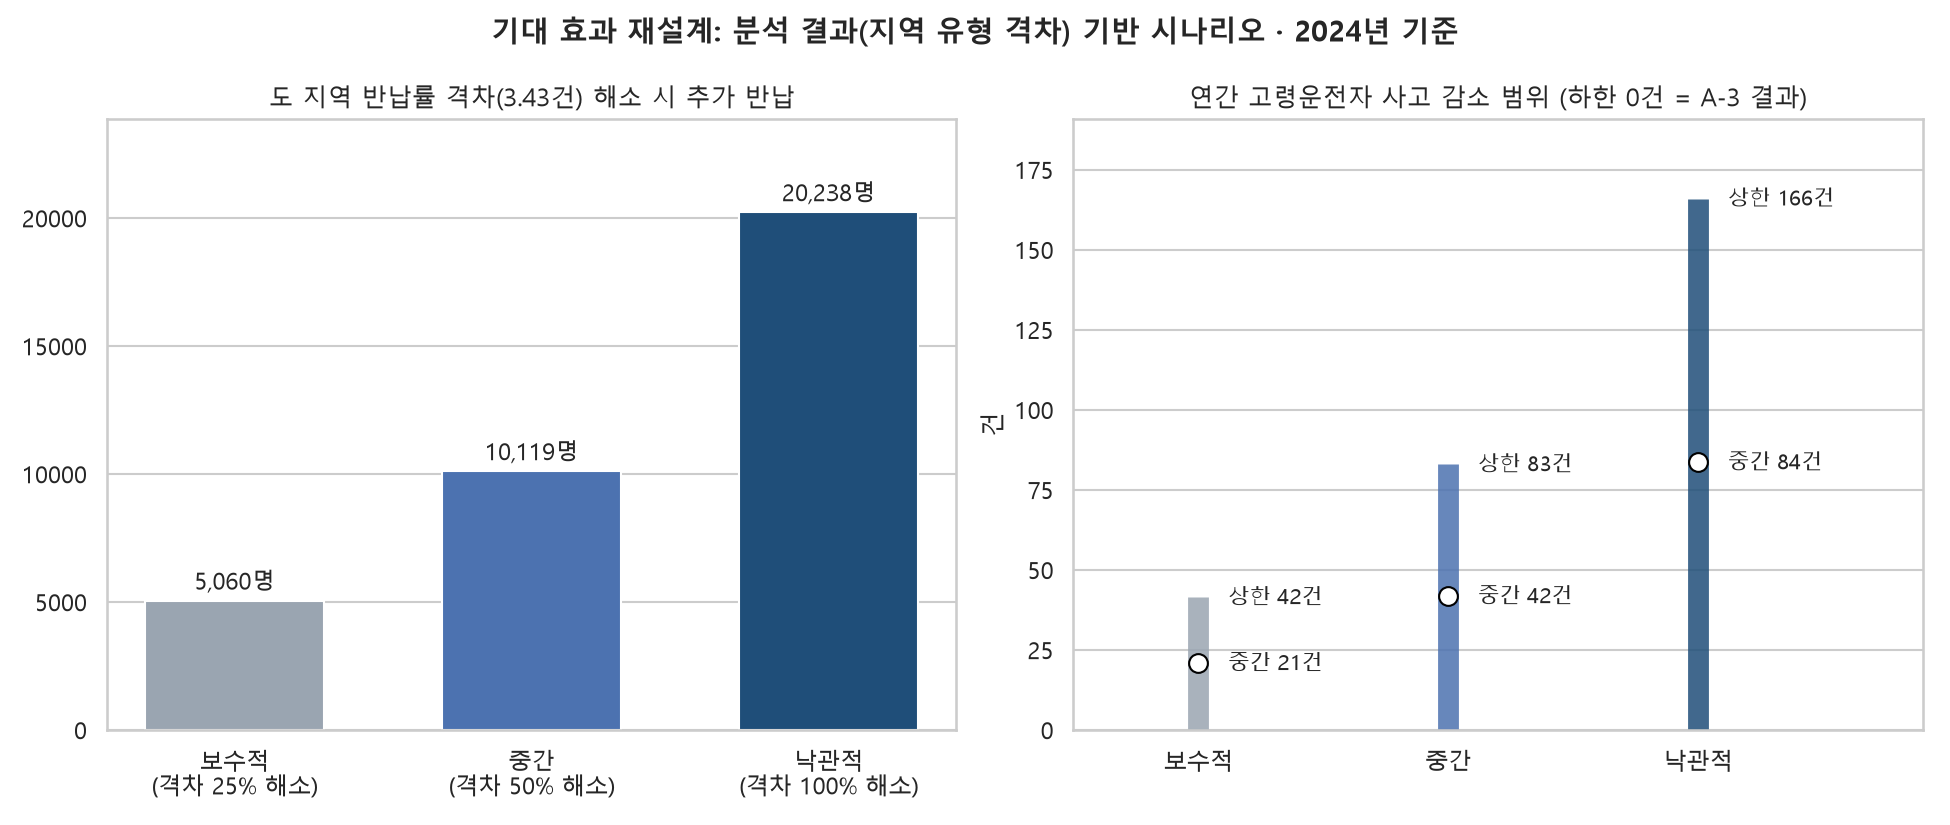
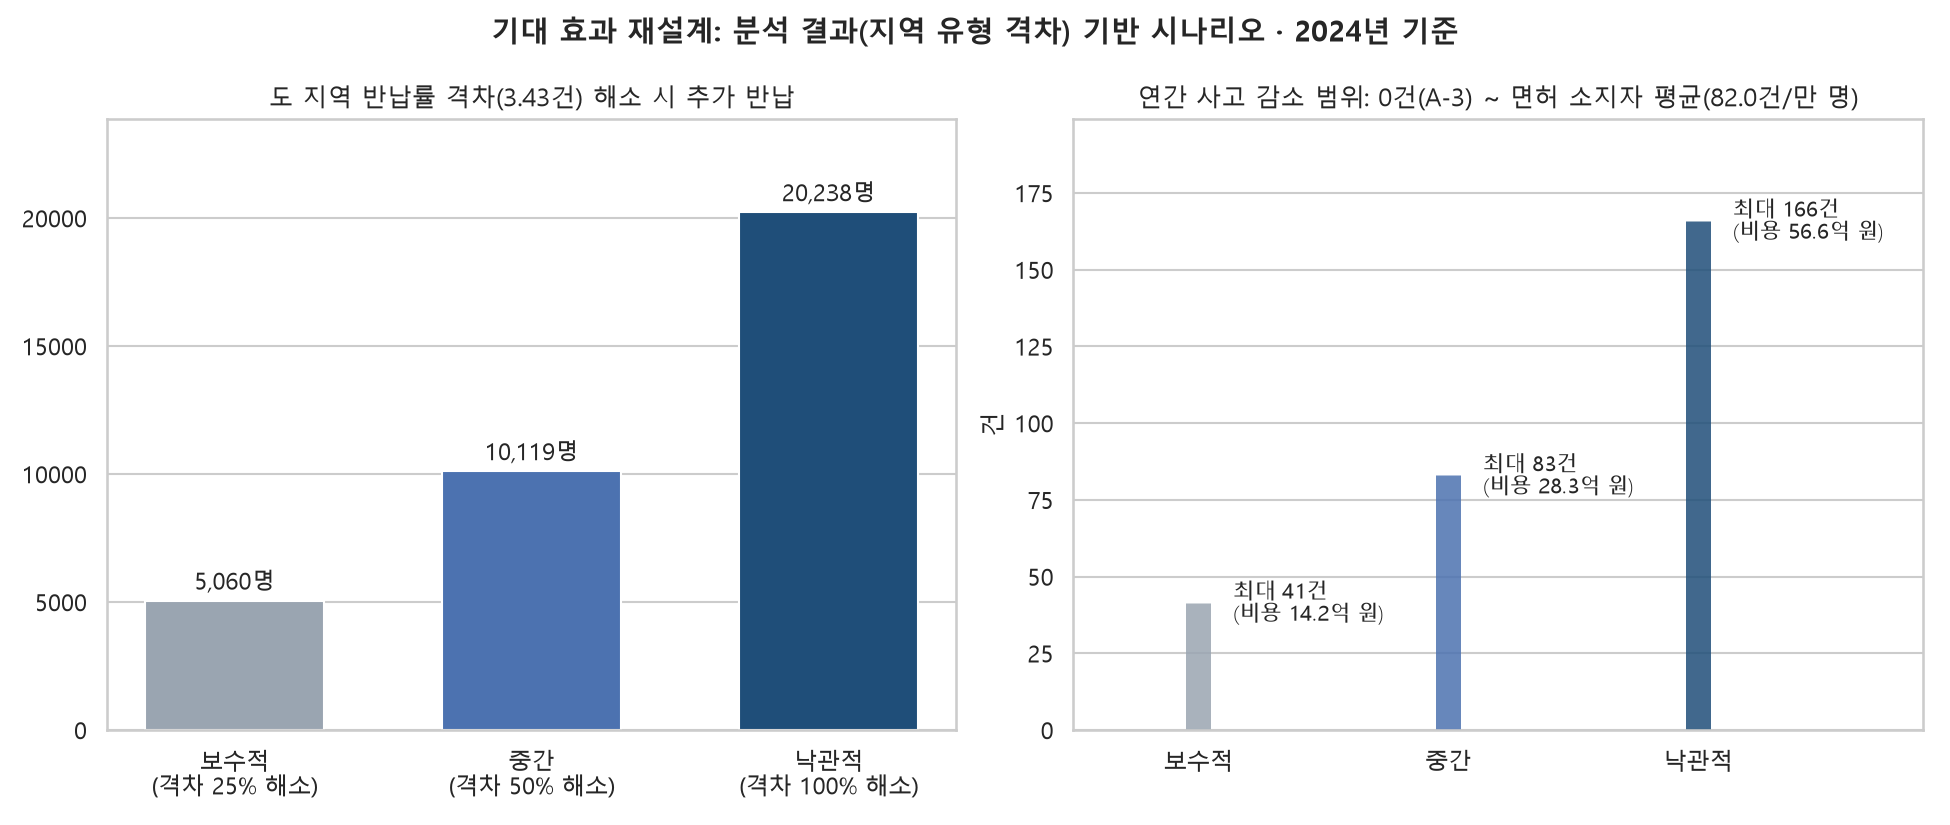
feat: 회고 ③ 2차 보완 - 사고 감소·비용을 공식 통계 기반 계산값으로 교체
- TAAS 2024 노인운전자 사고 사상자 구성(사망·중상·경상·부상신고) × 도로교통공단 1인당 사고비용
  → 고령운전자 사고 1건당 인적피해 비용 3,412만 원
- TAAS 사고 ÷ KOSIS 고령 면허 소지자 → 1만 명당 82.01건
- 시나리오 결과를 0 ~ 상한 범위(사고·사망·비용)로 갱신, 그래프·결과표·회고 갱신

diff --git a/개선/01_기대효과/기대효과_재설계.py b/개선/01_기대효과/기대효과_재설계.py
@@ -10,6 +10,9 @@
 #   ① 반납 목표: 우리 결과(도 지역 반납률이 대도시보다 3년 내내 낮음)에서 출발 → 격차를 25 / 50 / 100% 줄이는 3가지 시나리오
 #   ② 사고 위험: KOSIS 고령 면허 소지자 수로 '면허 소지자 1만 명당 사고'를 계산해 상한으로 사용
 #   ③ A-3 반영: 반납 1명당 사고 감소를 0(하한) ~ 면허 소지자 평균(상한) 범위로 제시
+#   ④ (2차 보완) 모든 입력값을 공식 통계로: 사고·사상자는 TAAS, 면허 소지자는 KOSIS, 비용 단가는 도로교통공단 발표값.
+#      비용은 '사망 비용 × 치사율' 대신, 고령운전자 사고의 실제 사상자 구성(사망·중상·경상·부상신고)으로 1건당 비용을 계산한다.
+#      남는 가정은 하나: "추가로 반납하는 어르신의 사고 위험 = 고령 면허 소지자 평균"(상한). 하한은 A-3 결과에 따라 0건.
 
 import numpy as np
 import pandas as pd
@@ -34,8 +37,23 @@ sns.set_theme(font='Malgun Gothic', rc={'axes.unicode_minus': False}, style='whi
 #   65세 ~ 99세 이상 '총계' 열을 연도별로 더한 값. 시도별 표(DT_13201_A005)에는 연령 구분이 없어 전국 값만 사용한다.
 고령면허 = pd.Series({2022: 4_387_358, 2023: 4_747_426, 2024: 5_166_386}, name='고령면허소지자')
 
-# 사망 1명당 사회적 비용 (도로교통공단, 2022년 기준 · 2024.02 발표) — 외부 값
-사망1명비용 = 533_790_000
+# TAAS 교통사고분석시스템 「시도 시군구별·월별 (노인운전자) 교통사고」 2024년 전국 합계 (도로교통공단, 경찰 DB)
+#   https://taas.koroad.or.kr/sta/acs/gus/selectOdsnDrverTfcacd.do?menuId=WEB_KMP_OVT_MVT_TAS_ODT
+#   사고 42,369건 · 사망 761명 · 부상 59,776명(= 중상 11,583 + 경상 44,442 + 부상신고 3,751)
+TAAS_2024 = {'사고': 42_369, '사망': 761, '중상': 11_583, '경상': 44_442, '부상신고': 3_751}
+assert TAAS_2024['중상'] + TAAS_2024['경상'] + TAAS_2024['부상신고'] == 59_776
+
+# 도로교통공단 「도로교통사고 비용의 추계와 평가」 2022년 기준, 사상자 1인당 평균 사고비용 (가장 최근 발표값)
+단가 = {'사망': 533_790_000, '중상': 68_900_000, '경상': 5_200_000, '부상신고': 2_680_000}
+
+# 고령운전자 사고 1건당 인적피해 비용 = Σ(사상자 수 × 1인당 비용) ÷ 사고 건수  (물적피해·사회기관비용 제외)
+인적피해 = {k: TAAS_2024[k] * 단가[k] for k in 단가}
+건당비용 = sum(인적피해.values()) / TAAS_2024['사고']
+건당사망 = TAAS_2024['사망'] / TAAS_2024['사고']
+print('[0] 고령운전자 사고 1건당 인적피해 비용 (2024 사상자 × 2022 단가)')
+for k, v in 인적피해.items():
+    print(f'  {k}: {TAAS_2024[k]:,}명 × {단가[k] / 1e4:,.0f}만 원 = {v / 1e8:,.1f}억 원')
+print(f'  합계 {sum(인적피해.values()) / 1e8:,.1f}억 원 ÷ {TAAS_2024["사고"]:,}건 = 1건당 {건당비용 / 1e4:,.0f}만 원')
 
 # ─────────────────────────────────────────────
 # 2. 분모 바꾸기: 인구 기준 vs 면허 소지자 기준
@@ -74,23 +92,21 @@ print(f'격차: {격차:.2f}건')
 # ─────────────────────────────────────────────
 # 4. 시나리오: 추가 반납 × 반납 1명당 사고 감소(하한 0 ~ 상한 면허 소지자 평균)
 # ─────────────────────────────────────────────
-사고위험 = {
-    '하한 (A-3: 관계 확인 안 됨)': 0.0,
-    '중간 (인구 기준, 기존 방식)': 전국.loc[2024, '사고_인구만명당'] / 1e4,
-    '상한 (면허 소지자 평균)': 전국.loc[2024, '사고_면허만명당'] / 1e4,
-}
-치사율 = 전국.loc[2024, '치사율(%)'] / 100
+# 면허 소지자 1명당 연간 사고 = TAAS 2024 사고 ÷ KOSIS 2024 고령 면허 소지자 (계산값)
+면허1명당사고 = TAAS_2024['사고'] / 고령면허[2024]
+print(f'\n고령 면허 소지자 1만 명당 사고 = {TAAS_2024["사고"]:,} ÷ {고령면허[2024]:,} × 10,000 = {면허1명당사고 * 1e4:.2f}건')
 
 행 = []
 for 이름, 비율 in [('보수적', 0.25), ('중간', 0.50), ('낙관적', 1.00)]:
     추가반납 = 격차 * 비율 * 도인구 / 1000
-    r = {'시나리오': 이름, '격차 해소': f'{비율:.0%}', '추가 반납(명)': round(추가반납)}
-    for k, 위험 in 사고위험.items():
-        r[f'사고 감소 · {k}'] = round(추가반납 * 위험, 1)
-    상한사고 = 추가반납 * 사고위험['상한 (면허 소지자 평균)']
-    r['사망 비용 절감 상한(억 원)'] = round(상한사고 * 치사율 * 사망1명비용 / 1e8, 1)
-    행.append(r)
+    상한사고 = 추가반납 * 면허1명당사고
+    행.append({'시나리오': 이름, '격차 해소': f'{비율:.0%}', '추가 반납(명)': round(추가반납),
+              '사고 감소(건/년)': f'0 ~ {상한사고:.1f}',
+              '사망 감소(명/년)': f'0 ~ {상한사고 * 건당사망:.2f}',
+              '인적피해 비용 절감(억 원/년)': f'0 ~ {상한사고 * 건당비용 / 1e8:.1f}',
+              '_상한사고': 상한사고, '_상한비용': 상한사고 * 건당비용 / 1e8})
 시나리오 = pd.DataFrame(행)
+보기 = 시나리오.drop(columns=['_상한사고', '_상한비용'])
 
 # 기존 방식 (E_결합.py 6-1 ~ 6-2 재현)
 전국반납률 = 전국.loc[2024, '반납률_인구천명당']
@@ -100,7 +116,7 @@ for 이름, 비율 in [('보수적', 0.25), ('중간', 0.50), ('낙관적', 1.00
 기존사고 = (하위['추가'] * 하위['고령사고_만명당'] / 1e4).sum()
 
 print('\n[3] 시나리오 (2024년 기준)')
-print(시나리오.to_string(index=False))
+print(보기.to_string(index=False))
 print(f'\n[참고] 기존 방식: 반납률 하위 {len(하위)}개 시도 → 전국 평균, 추가 반납 {기존반납:,.0f}명 · 사고 감소 {기존사고:.1f}건')
 
 # ─────────────────────────────────────────────
@@ -128,8 +144,19 @@ with open(f'{출력}/결과표.md', 'w', encoding='utf-8') as f:
                   '고령사고', '사고_인구만명당', '사고_면허만명당']].round(1).to_frame('변화율(%)').pipe(마크다운) + '\n\n')
     f.write('## 2. 2024년 지역 유형별 반납률\n\n')
     f.write(유형.round(2).pipe(마크다운) + f'\n\n격차: {격차:.2f}건 (65세 이상 천 명당)\n\n')
-    f.write('## 3. 시나리오\n\n')
-    f.write(마크다운(시나리오, index=False) + '\n\n')
+    f.write('## 3. 고령운전자 사고 1건당 인적피해 비용 (계산)\n\n')
+    f.write('사상자 수: TAAS 2024년 노인운전자 교통사고 / 1인당 비용: 도로교통공단 2022년 기준 발표값\n\n')
+    f.write('| 구분 | 사상자(명) | 1인당 비용(만 원) | 비용(억 원) |\n|---|---|---|---|\n')
+    for k, v in 인적피해.items():
+        f.write(f'| {k} | {TAAS_2024[k]:,} | {단가[k] / 1e4:,.0f} | {v / 1e8:,.1f} |\n')
+    f.write(f'| **합계** | | | **{sum(인적피해.values()) / 1e8:,.1f}** |\n\n')
+    f.write(f'1건당 비용 = {sum(인적피해.values()) / 1e8:,.1f}억 원 ÷ {TAAS_2024["사고"]:,}건 = **{건당비용 / 1e4:,.0f}만 원** '
+            f'(물적피해·사회기관비용 제외)\n\n')
+    f.write(f'고령 면허 소지자 1만 명당 사고 = {TAAS_2024["사고"]:,} ÷ {고령면허[2024]:,} × 10,000 = **{면허1명당사고 * 1e4:.2f}건**\n\n')
+    f.write('## 4. 시나리오\n\n')
+    f.write(마크다운(보기, index=False) + '\n\n')
+    f.write('- 하한 0: A-3(반납률과 고령사고의 관계 없음) 결과를 그대로 반영\n')
+    f.write('- 상한: 추가로 반납하는 어르신의 사고 위험이 고령 면허 소지자 평균과 같다고 가정 (유일한 가정)\n\n')
     f.write(f'기존 방식: 반납률 하위 {len(하위)}개 시도 → 전국 평균, 추가 반납 {기존반납:,.0f}명 · 사고 감소 {기존사고:.1f}건\n')
 
 # 그래프: 시나리오별 추가 반납(왼쪽) · 사고 감소 범위(오른쪽)
@@ -142,17 +169,14 @@ ax1.set_ylim(0, 시나리오['추가 반납(명)'].max() * 1.18)
 ax1.set_xticks(range(3), [f'{n}\n(격차 {p} 해소)' for n, p in zip(시나리오['시나리오'], 시나리오['격차 해소'])])
 ax1.grid(axis='x', visible=False)
 
-키 = list(사고위험)
 for i, (_, r) in enumerate(시나리오.iterrows()):
-    하, 중, 상 = r[f'사고 감소 · {키[0]}'], r[f'사고 감소 · {키[1]}'], r[f'사고 감소 · {키[2]}']
-    ax2.plot([i, i], [하, 상], color=색[i], linewidth=10, solid_capstyle='butt', alpha=0.85)
-    ax2.plot(i, 중, 'o', color='white', markeredgecolor='black', markersize=9, zorder=3)
-    ax2.text(i + 0.12, 상, f'상한 {상:.0f}건', va='center', fontsize=10)
-    ax2.text(i + 0.12, 중, f'중간 {중:.0f}건', va='center', fontsize=10)
+    상, 비용 = r['_상한사고'], r['_상한비용']
+    ax2.plot([i, i], [0, 상], color=색[i], linewidth=12, solid_capstyle='butt', alpha=0.85)
+    ax2.text(i + 0.14, 상, f'최대 {상:.0f}건\n(비용 {비용:.1f}억 원)', va='center', fontsize=10)
 ax2.set_xticks(range(3), 시나리오['시나리오'])
 ax2.set_xlim(-0.5, 2.9)
-ax2.set_ylim(0, 시나리오[f'사고 감소 · {키[2]}'].max() * 1.15)
-ax2.set_title('연간 고령운전자 사고 감소 범위 (하한 0건 = A-3 결과)', fontsize=12)
+ax2.set_ylim(0, 시나리오['_상한사고'].max() * 1.2)
+ax2.set_title(f'연간 사고 감소 범위: 0건(A-3) ~ 면허 소지자 평균({면허1명당사고 * 1e4:.1f}건/만 명)', fontsize=12)
 ax2.set_ylabel('건')
 ax2.grid(axis='x', visible=False)
 fig.suptitle('기대 효과 재설계: 분석 결과(지역 유형 격차) 기반 시나리오 · 2024년 기준', fontsize=14, fontweight='bold')

diff --git a/프로젝트회고.md b/프로젝트회고.md
@@ -65,17 +65,25 @@
   2. **문제가 더 크다는 것을 확인했다.** 면허 소지자 기준 반납률은 25.74 → 22.15건으로 **−14.0%**였다. 인구 기준(−8.5%)보다 더 크게 줄었다.
   3. **사고 증가의 원인을 나눠 봤다.** 고령운전자 사고 +22.3% 중 상당 부분은 고령 면허 소지자 증가(+17.8%) 때문이었고, 면허 소지자 1만 명당 사고는 **+3.8%**에 그쳤다. "어르신 운전이 더 위험해졌다"기보다 "운전하는 어르신이 많아졌다"에 가깝다.
   4. **목표를 분석 결과에서 다시 세웠다.** '전국 평균' 대신, 우리가 찾은 지역 유형 격차(2024년 대도시 13.13 vs 도 9.70건, 격차 3.43건)를 25 / 50 / 100% 줄이는 세 시나리오로 바꿨다 → 추가 반납 **5,060 / 10,119 / 20,238명**.
-  5. **사고 감소는 범위로 제시했다.** 반납 1명당 사고 감소를 하한 0(A-3 결과) ~ 상한 면허 소지자 평균(1만 명당 82.0건)으로 두었다. 중간 시나리오 기준 **연 0 ~ 83건**, 사망 비용 절감은 최대 약 8억 원이다.
+  5. **사고 감소는 범위로 제시했다.** 반납 1명당 사고 감소를 하한 0(A-3 결과) ~ 상한 면허 소지자 평균(1만 명당 82.0건)으로 두었다. 중간 시나리오 기준 **연 0 ~ 83건**이다.
+  6. **(2차 보완) 추정치를 공식 통계 기반 계산값으로 바꿨다.** 처음 재설계 때는 비용을 "사망 비용 × 치사율"로 어림했다. 이를 공식 통계로 계산한 값으로 바꿨다.
+     - **사상자 구성:** TAAS(도로교통공단) 「노인운전자 교통사고」 2024년 → 사고 42,369건, 사망 761명, 중상 11,583명, 경상 44,442명, 부상신고 3,751명
+     - **1인당 비용:** 도로교통공단 발표 2022년 기준 → 사망 5억 3,379만 원, 중상 6,890만 원, 경상 520만 원, 부상신고 268만 원
+     - **고령운전자 사고 1건당 인적피해 비용** = 1조 4,454억 원 ÷ 42,369건 = **3,412만 원** (계산값)
+     - **고령 면허 소지자 1만 명당 사고** = TAAS 42,369건 ÷ KOSIS 5,166,386명 = **82.01건** (계산값)
+     - 결과: 중간 시나리오 기준 사고 **연 0 ~ 83건**, 사망 **0 ~ 1.5명**, 인적피해 비용 **0 ~ 28.3억 원**
+     - 이제 숫자는 모두 공식 통계에서 계산한 값이고, 남은 가정은 "추가로 반납하는 어르신의 사고 위험 = 고령 면허 소지자 평균"(상한) **하나**뿐이다. 하한 0건은 가정이 아니라 A-3 분석 결과다.
 
   | 구분 | 기존 | 재설계 |
   |---|---|---|
   | 반납 목표 | 반납률 하위 5개 시도 → 전국 평균 (근거 없음) | 도 지역과 대도시의 반납률 격차 해소 (분석 결과) |
   | 사고 위험 분모 | 65세 이상 인구 (면허 없는 어르신 포함) | 65세 이상 면허 소지자 (상한) |
   | A-3과의 관계 | 무시 (반납 = 사고 감소 전제) | 하한 0건으로 반영 |
-  | 결과 표현 | 5,760명 · 27.2건 · 2.6억 원 (단일값) | 5,060 ~ 20,238명 · 0 ~ 166건 · 최대 15.9억 원 (가정 공개) |
+  | 비용 계산 | 감소 사고 × 치사율 × 사망 1명 비용 (사망만 반영) | 감소 사고 × 1건당 인적피해 비용 3,412만 원 (TAAS 사상자 구성 × 도로교통공단 단가) |
+  | 결과 표현 | 5,760명 · 27.2건 · 2.6억 원 (단일값) | 5,060 ~ 20,238명 · 0 ~ 166건 · 0 ~ 56.6억 원 (가정 1개 공개) |
 
   - **제언과의 연결:** 사고 감소의 하한이 0건이므로 "반납만 늘리면 사고가 준다"고 말할 수 없다. 그래서 반납 유도(호출형 버스)와 함께 조건부 면허·안전장치를 병행해야 한다는 제언의 근거가 더 분명해졌다.
-  - **남은 한계:** ① 시도별 고령 면허 소지자 통계가 공개 표에 없어 전국 평균 위험률을 썼다. ② 반납하는 사람은 원래 운전을 적게 하던 사람일 가능성이 높아, 실제 사고 감소는 상한보다 작을 수 있다. ③ "이동 수단을 갖추면 도 지역 반납률이 대도시 수준에 가까워진다"는 것은 가정이며 인과는 검증하지 않았다. ④ 사망 1명당 비용(5억 3,379만 원)은 도로교통공단의 외부 값이다.
+  - **남은 한계:** ① 시도별 고령 면허 소지자 통계가 공개 표에 없어 전국 평균 위험률을 썼다. ② 반납하는 사람은 원래 운전을 적게 하던 사람일 가능성이 높아, 실제 사고 감소는 상한보다 작을 수 있다. ③ "이동 수단을 갖추면 도 지역 반납률이 대도시 수준에 가까워진다"는 것은 가정이며 인과는 검증하지 않았다. ④ 1인당 사고비용은 공개된 가장 최근 값이 2022년 기준이라, 2024년 사상자에 2022년 단가를 곱했다. 물적피해·사회기관비용은 빠져 있어 실제 사회적 비용보다 작게 계산된다.
 
 ### 회고 ④ 치사율 가설(A-2)이 주제와 거리가 있었다
 

diff --git a/개선/01_기대효과/결과표.md b/개선/01_기대효과/결과표.md
@@ -38,12 +38,31 @@
 
 격차: 3.43건 (65세 이상 천 명당)
 
-## 3. 시나리오
+## 3. 고령운전자 사고 1건당 인적피해 비용 (계산)
 
-| 시나리오 | 격차 해소 | 추가 반납(명) | 사고 감소 · 하한 (A-3: 관계 확인 안 됨) | 사고 감소 · 중간 (인구 기준, 기존 방식) | 사고 감소 · 상한 (면허 소지자 평균) | 사망 비용 절감 상한(억 원) |
-|---|---|---|---|---|---|---|
-| 보수적 | 25% | 5,060 | 0 | 20.9 | 41.5 | 4 |
-| 중간 | 50% | 10,119 | 0 | 41.8 | 83 | 8 |
-| 낙관적 | 100% | 20,238 | 0 | 83.6 | 166 | 15.9 |
+사상자 수: TAAS 2024년 노인운전자 교통사고 / 1인당 비용: 도로교통공단 2022년 기준 발표값
+
+| 구분 | 사상자(명) | 1인당 비용(만 원) | 비용(억 원) |
+|---|---|---|---|
+| 사망 | 761 | 53,379 | 4,062.1 |
+| 중상 | 11,583 | 6,890 | 7,980.7 |
+| 경상 | 44,442 | 520 | 2,311.0 |
+| 부상신고 | 3,751 | 268 | 100.5 |
+| **합계** | | | **14,454.3** |
+
+1건당 비용 = 14,454.3억 원 ÷ 42,369건 = **3,412만 원** (물적피해·사회기관비용 제외)
+
+고령 면허 소지자 1만 명당 사고 = 42,369 ÷ 5,166,386 × 10,000 = **82.01건**
+
+## 4. 시나리오
+
+| 시나리오 | 격차 해소 | 추가 반납(명) | 사고 감소(건/년) | 사망 감소(명/년) | 인적피해 비용 절감(억 원/년) |
+|---|---|---|---|---|---|
+| 보수적 | 25% | 5,060 | 0 ~ 41.5 | 0 ~ 0.75 | 0 ~ 14.2 |
+| 중간 | 50% | 10,119 | 0 ~ 83.0 | 0 ~ 1.49 | 0 ~ 28.3 |
+| 낙관적 | 100% | 20,238 | 0 ~ 166.0 | 0 ~ 2.98 | 0 ~ 56.6 |
+
+- 하한 0: A-3(반납률과 고령사고의 관계 없음) 결과를 그대로 반영
+- 상한: 추가로 반납하는 어르신의 사고 위험이 고령 면허 소지자 평균과 같다고 가정 (유일한 가정)
 
 기존 방식: 반납률 하위 5개 시도 → 전국 평균, 추가 반납 5,760명 · 사고 감소 27.2건
